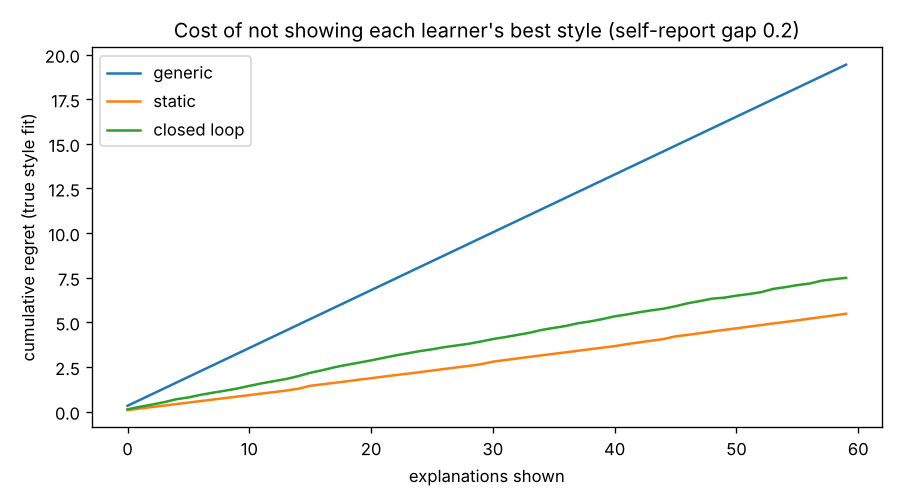
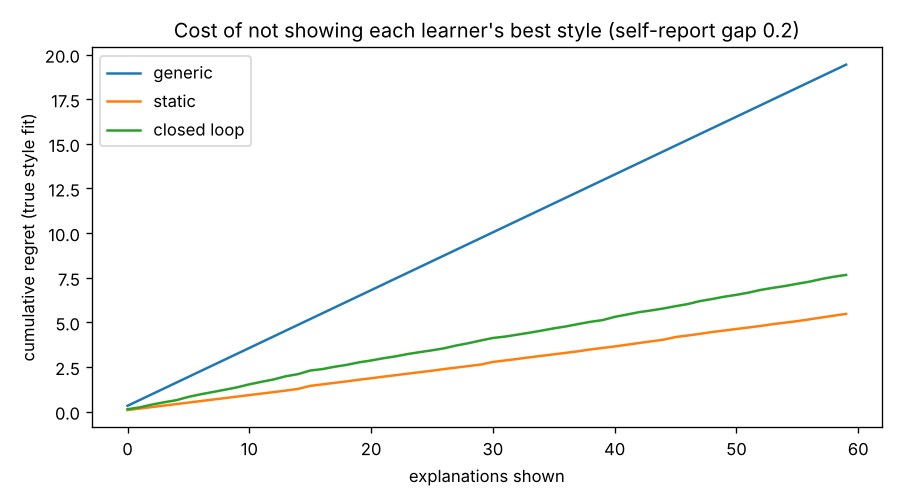
R6: regenerate the simulation study after the reproducibility fixes
The closed loop now cuts style-trait error by 25% (was 36%) and ties static on learning gain
(the earlier significant deficit did not survive). epsilon = 0.1 is no longer clearly better
for recovery than epsilon = 0; constants are unchanged and the note says so.

Claude-Session: https://claude.ai/code/session_01E1QCnbxQn9ibznM9LLL3cR

diff --git a/research/reports/simulation.md b/research/reports/simulation.md
@@ -1,6 +1,6 @@
 # Simulation study (R6, hypothesis H3)
 
-> Generated by `research/simulate.py` in 14.9 min. **Do not edit by hand**: rerun the script. The interpretation and the design decisions taken from it are in `tasks/ronit.md` (R6) and `docs/MODEL_SPEC.md`.
+> Generated by `research/simulate.py` in 33.6 min. **Do not edit by hand**: rerun the script. The interpretation and the design decisions taken from it are in `tasks/ronit.md` (R6) and `docs/MODEL_SPEC.md`.
 
 ## Setup
 
@@ -12,11 +12,11 @@
 
 ## Key numbers
 
-- With a self-report gap, the closed loop cuts style-trait error from 0.158 to 0.102 (**36% lower**) in 60 explanations. Static stays at 0.158.
-- With accurate self-report it barely moves: 0.089 → 0.081.
-- Over 60 explanations, regret per explanation is 0.125 (closed loop) vs 0.091 (static) and 0.324 (generic). In the long run (150 explanations), the closed loop's regret per explanation is 0.119 in the first half and 0.093 in the second.
-- Learning gain, closed loop − static (paired): -0.016 (95% CI -0.029 to -0.003); closed loop − generic: +0.027 (95% CI +0.006 to +0.047).
-- Behavioural-trait EWMA (rate 0.05) moves persistence/self-efficacy error from 0.160 (off) to 0.223 (on).
+- With a self-report gap, the closed loop cuts style-trait error from 0.158 to 0.118 (**25% lower**) in 60 explanations. Static stays at 0.158.
+- With accurate self-report it barely moves: 0.089 → 0.066.
+- Over 60 explanations, regret per explanation is 0.128 (closed loop) vs 0.091 (static) and 0.324 (generic). In the long run (150 explanations), the closed loop's regret per explanation is 0.128 in the first half and 0.101 in the second.
+- Learning gain, closed loop − static (paired): -0.002 (95% CI -0.014 to +0.011); closed loop − generic: +0.037 (95% CI +0.019 to +0.054).
+- Behavioural-trait EWMA (rate 0.05) moves persistence/self-efficacy error from 0.160 (off) to 0.221 (on).
 - Lowest-regret setting in the sweep: ε = 0.0, questionnaire variance = 0.04.
 
 ## 1. Three arms, self-report gap 0.2 (main)
@@ -24,30 +24,30 @@
 | metric | generic | static | closed loop |
 |---|---|---|---|
 | style-trait error, start (questionnaire) | 0.158 | 0.158 | 0.158 |
-| style-trait error, end | 0.158 | 0.158 | 0.102 |
+| style-trait error, end | 0.158 | 0.158 | 0.118 |
 | persistence + self-efficacy error, end | 0.160 | 0.160 | 0.160 |
-| regret per explanation | 0.324 | 0.091 | 0.125 |
-| micro-check accuracy | 0.623 | 0.704 | 0.709 |
-| learning gain (share of concepts known) | 0.186 | 0.229 | 0.212 |
-| distinct styles shown per learner | 1.0 | 1.7 | 8.8 |
+| regret per explanation | 0.324 | 0.091 | 0.128 |
+| micro-check accuracy | 0.642 | 0.701 | 0.707 |
+| learning gain (share of concepts known) | 0.188 | 0.226 | 0.225 |
+| distinct styles shown per learner | 1.0 | 1.7 | 8.7 |
 
 ## 2. Three arms, accurate self-report
 
 | metric | generic | static | closed loop |
 |---|---|---|---|
 | style-trait error, start (questionnaire) | 0.089 | 0.089 | 0.089 |
-| style-trait error, end | 0.089 | 0.089 | 0.081 |
+| style-trait error, end | 0.089 | 0.089 | 0.066 |
 | persistence + self-efficacy error, end | 0.098 | 0.098 | 0.098 |
-| regret per explanation | 0.207 | 0.046 | 0.112 |
-| micro-check accuracy | 0.659 | 0.709 | 0.710 |
-| learning gain (share of concepts known) | 0.201 | 0.221 | 0.214 |
-| distinct styles shown per learner | 1.0 | 1.7 | 9.0 |
+| regret per explanation | 0.207 | 0.046 | 0.101 |
+| micro-check accuracy | 0.677 | 0.709 | 0.715 |
+| learning gain (share of concepts known) | 0.200 | 0.226 | 0.217 |
+| distinct styles shown per learner | 1.0 | 1.8 | 8.9 |
 
 ## 3. Trait recovery and regret over time
 
 ![Style-trait recovery](figures/trait_recovery.png)
 
-Long run (24 learners, gap 0.2): error 0.137 after 0, 0.110 after 30, 0.097 after 60, 0.086 after 100, 0.079 after 149.
+Long run (24 learners, gap 0.2): error 0.137 after 0, 0.126 after 30, 0.095 after 60, 0.089 after 100, 0.091 after 149.
 
 ![Cumulative regret](figures/regret.png)
 
@@ -58,14 +58,14 @@ A population with **no** true style preference (all three style traits 0.5), gap
 | arm | claimed-preference share | mean distance from 0.5 |
 |---|---|---|
 | static | 0.467 | 0.165 |
-| closed loop | 0.183 | 0.097 |
+| closed loop | 0.217 | 0.099 |
 
 ## 5. Behavioural traits (persistence, self-efficacy)
 
 | closed loop, gap world | error at the end |
 |---|---|
 | EWMA off (new default) | 0.160 |
-| EWMA on, rate 0.05 (v0 default) | 0.223 |
+| EWMA on, rate 0.05 (v0 default) | 0.221 |
 
 The EWMA pulls each trait toward its raw proxy (share of 'kept going after a wrong answer', calibrated confidence). Nothing guarantees that a proxy's average equals the trait, so the estimate drifts away from the truth.
 
@@ -73,12 +73,12 @@ The EWMA pulls each trait toward its raw proxy (share of 'kept going after a wro
 
 | ε | questionnaire variance | style-trait error | regret / expl. | non-greedy | learning gain |
 |---|---|---|---|---|---|
-| 0.0 | 0.04 | 0.124 ± 0.012 | 0.134 | 53.1% | 0.233 |
-| 0.0 | 0.09 | 0.114 ± 0.010 | 0.138 | 58.3% | 0.222 |
-| 0.05 | 0.04 | 0.122 ± 0.011 | 0.149 | 53.7% | 0.216 |
-| 0.05 | 0.09 | 0.113 ± 0.011 | 0.151 | 58.0% | 0.219 |
-| 0.1 | 0.04 | 0.101 ± 0.008 | 0.149 | 57.0% | 0.226 |
-| 0.1 | 0.09 | 0.098 ± 0.007 | 0.149 | 61.2% | 0.222 |
+| 0.0 | 0.04 | 0.116 ± 0.010 | 0.119 | 48.5% | 0.224 |
+| 0.0 | 0.09 | 0.112 ± 0.010 | 0.132 | 55.9% | 0.228 |
+| 0.05 | 0.04 | 0.109 ± 0.011 | 0.126 | 51.2% | 0.225 |
+| 0.05 | 0.09 | 0.103 ± 0.011 | 0.135 | 57.0% | 0.212 |
+| 0.1 | 0.04 | 0.106 ± 0.010 | 0.142 | 56.8% | 0.224 |
+| 0.1 | 0.09 | 0.114 ± 0.010 | 0.156 | 60.2% | 0.217 |
 
 ε is the forced-exploration floor; Thompson sampling explores on top of it. 'Non-greedy' is the share of styles that differ from the posterior-mean best.
 

diff --git a/tasks/ronit.md b/tasks/ronit.md
@@ -165,22 +165,24 @@
         changes documented
 - [x] **R6 done**: `research/reports/simulation.md` (regenerate: see `research/README.md`)
   - _Findings (40 paired learners per arm, 60 explanations; well-specified world):_
-    1. _With a self-report gap (SD 0.2), the closed loop cuts style-trait error by 36%
-       (0.158 → 0.102) and keeps improving (0.079 after 150). With accurate self-report there
-       is little to learn (0.089 → 0.081). The loop's value depends on how wrong self-report
+    1. _With a self-report gap (SD 0.2), the closed loop cuts style-trait error by 25%
+       (0.158 → 0.118) and keeps improving (0.091 after 150). With accurate self-report there
+       is less to learn (0.089 → 0.066). The loop's value depends on how wrong self-report
        is, so **the pilot should measure that gap**._
-    2. _It does not invent preferences: with no true preference it claims one in 18% of
+    2. _It does not invent preferences: with no true preference it claims one in 22% of
        estimates, vs 47% for questionnaire-only (it corrects questionnaire noise)._
     3. _Short horizons cost: over 60 explanations the closed loop beats generic on learning
-       gain (+0.027, CI +0.006 to +0.047) but trails static (−0.016, CI −0.029 to −0.003),
-       because Thompson sampling explores a lot. Regret only catches up with static after
+       gain (+0.037, CI +0.019 to +0.054) and ties static (−0.002, CI −0.014 to +0.011; the
+       first run's significant −0.016 did not survive the reproducibility fixes), but pays more
+       regret than static (0.128 vs 0.091) because Thompson sampling explores a lot. Regret only catches up with static after
        ~100 explanations. **Decision for Ronit:** keep full Thompson sampling (best for
        identifying traits, the research claim) or exploit more (better short-term
        learning). See MODEL_SPEC §2.2 "Checked in R6"._
-    4. _The behavioural-trait EWMA made persistence/self-efficacy worse (0.160 → 0.223), so
+    4. _The behavioural-trait EWMA made persistence/self-efficacy worse (0.160 → 0.221), so
        it is now off by default until calibrated (MODEL_SPEC §2.3)._
-    5. _Constants kept (ε = 0.1, questionnaire variance 0.04); the sweep did not justify a
-       change._
+    5. _Constants kept (ε = 0.1, questionnaire variance 0.04), but in the rerun ε = 0.1 is no
+       longer clearly better for recovery than ε = 0 and costs ~20% more regret; worth
+       revisiting with decision 3._
 
 ## R7: Hardening (weeks 7–8)
 - **Depends on:** R5

diff --git a/docs/MODEL_SPEC.md b/docs/MODEL_SPEC.md
@@ -115,10 +115,11 @@ observation count `n` are stored in `learner_traits.bandit`. Code:
 
 > *Checked in R6 (`research/reports/simulation.md` §6):* ε ∈ {0, 0.05, 0.1} ×
 > questionnaire variance ∈ {0.04, 0.09}. **Kept ε = 0.1 and variance = 0.04.**
-> - ε = 0.1 gave the best trait recovery (error 0.101 vs 0.124 at ε = 0, about
->   2 SE apart) for about 10% more regret (0.149 vs 0.134).
+> - Rerun after the R8 reproducibility fixes: ε = 0.1 gave error 0.106 vs 0.116 at ε = 0
+>   (now within 1 SE; the first run had 0.101 vs 0.124) for about 20% more regret
+>   (0.142 vs 0.119). The case for ε = 0.1 over a lower floor is weaker than first reported.
 > - The variance difference was within 1 SE.
-> - The bigger lever is Thompson sampling itself: 53–61% of choices differ from
+> - The bigger lever is Thompson sampling itself: 49–60% of choices differ from
 >   the posterior-mean best style. That makes the closed loop pay more regret
 >   than the static arm for roughly the first 100 explanations (§3 of the
 >   report). Trading recovery for regret (e.g. greedy on the posterior mean,
